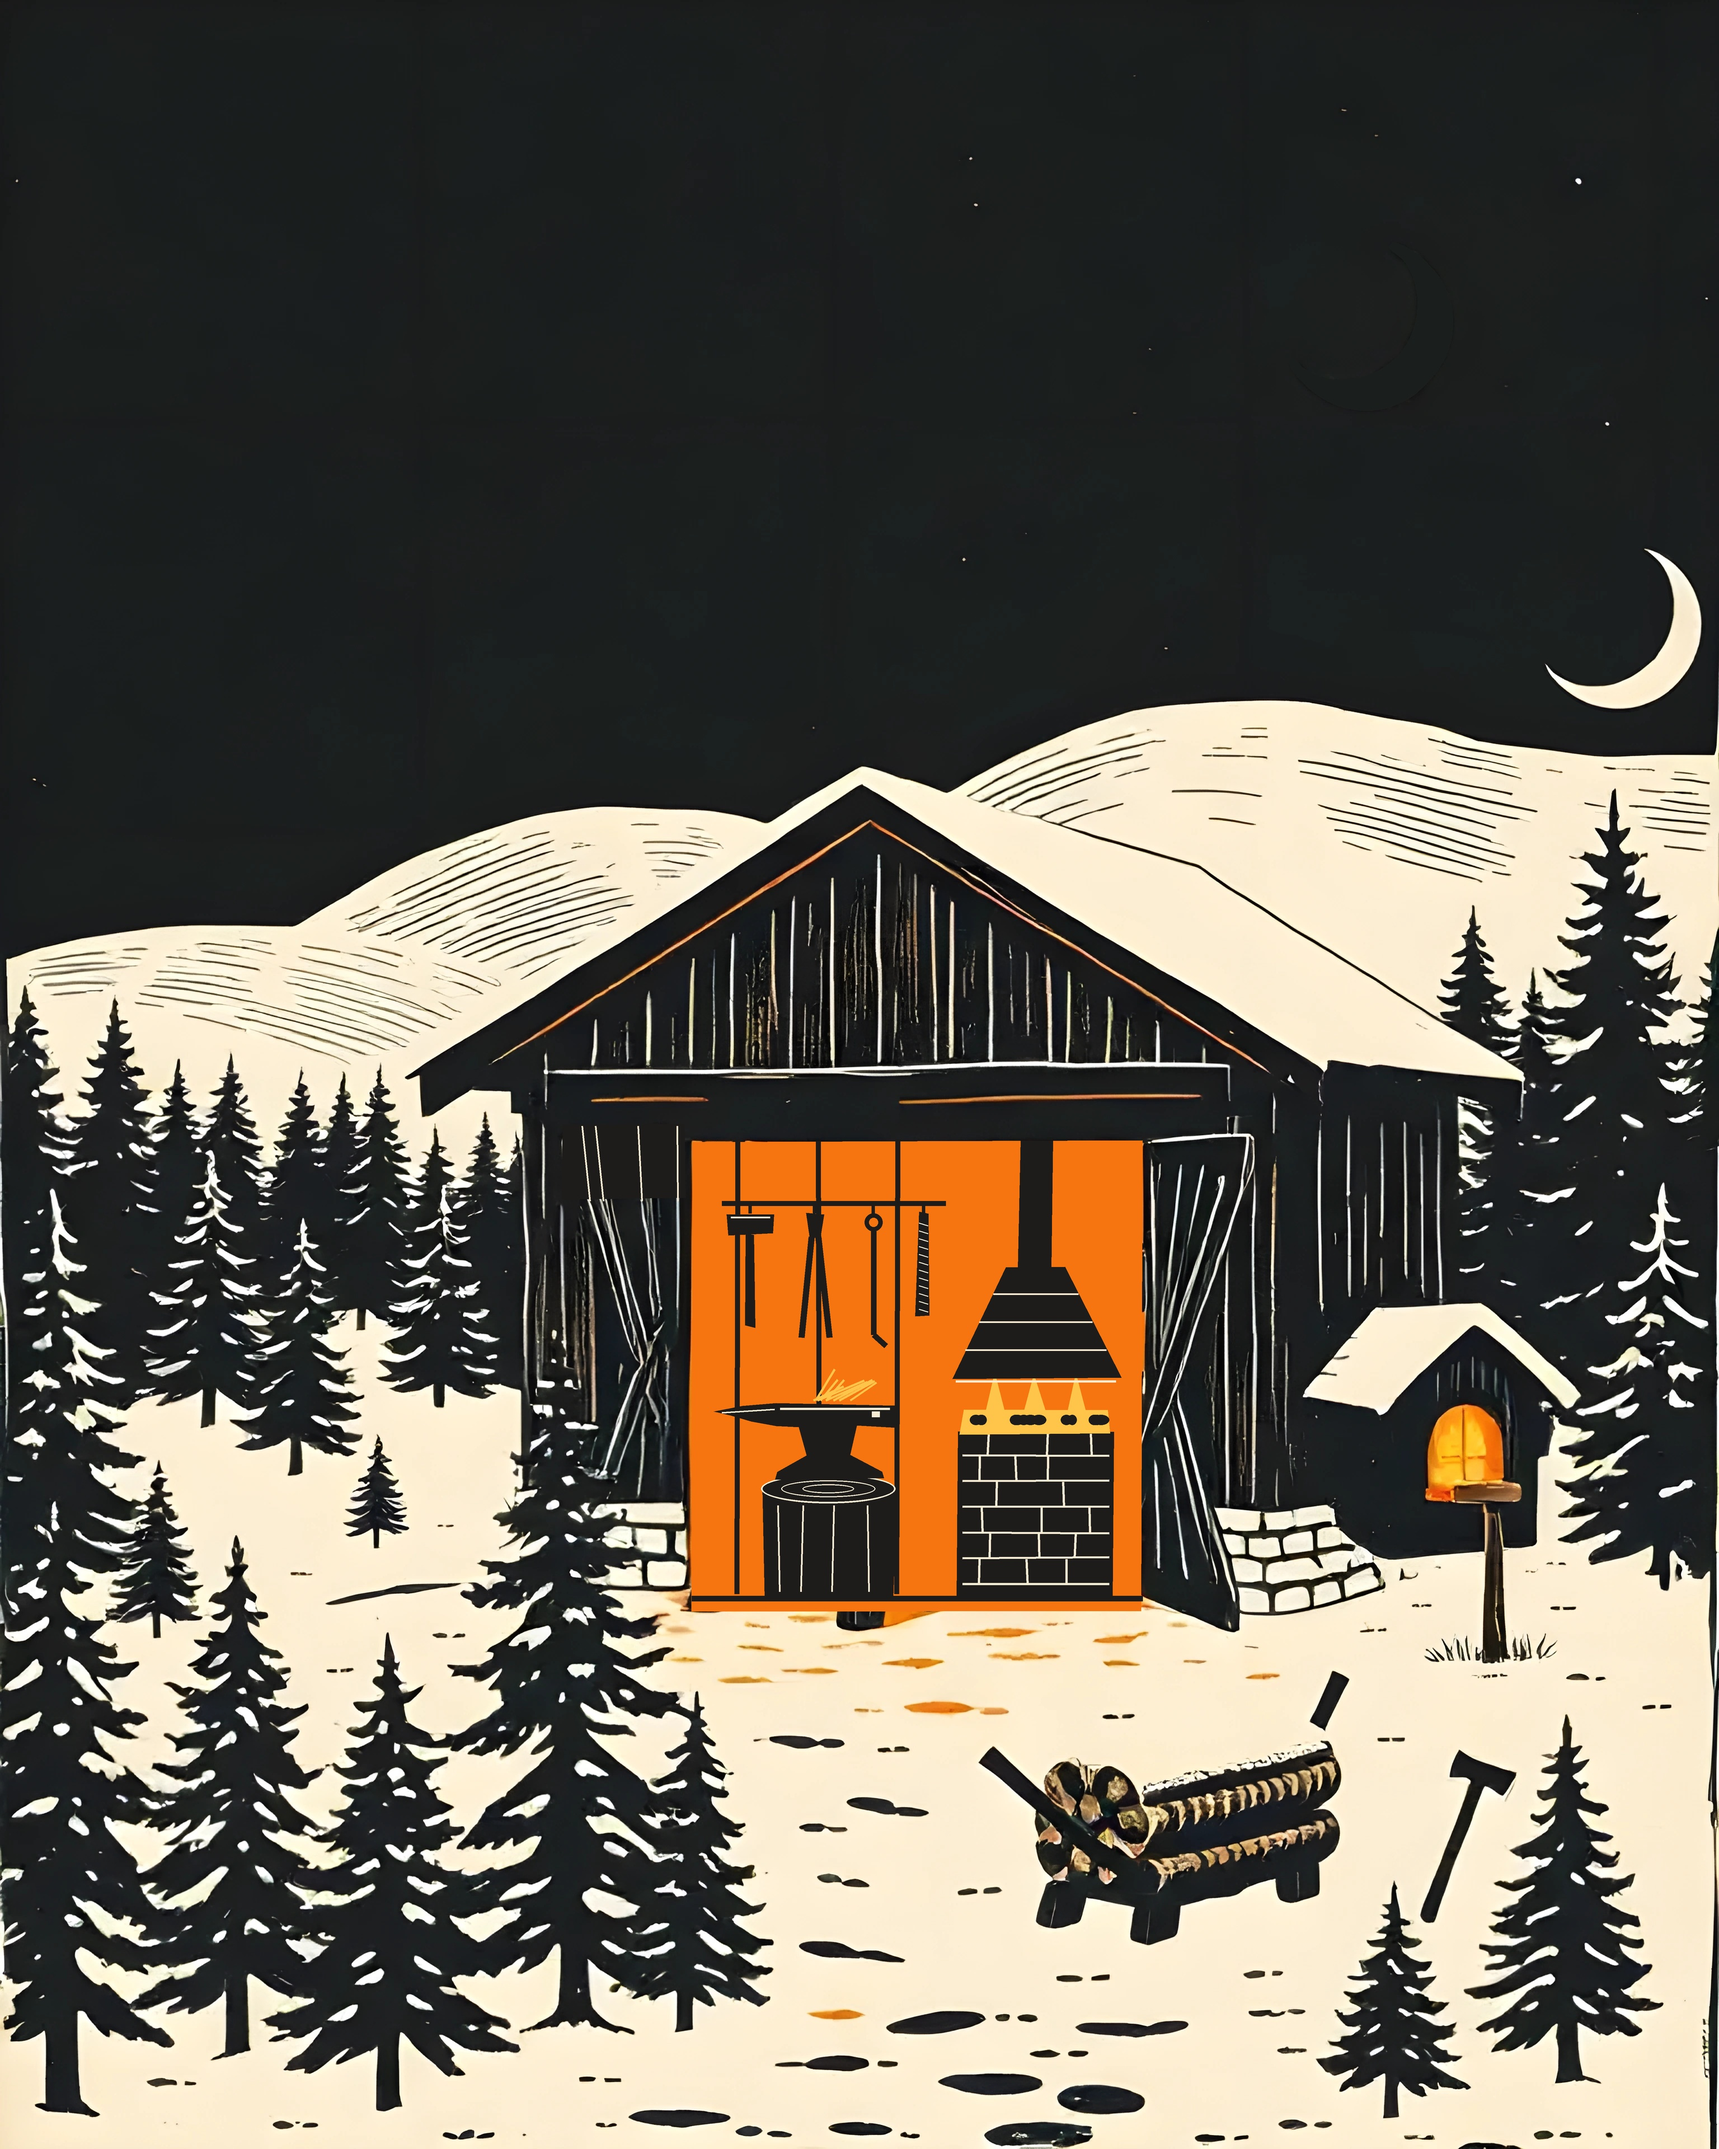
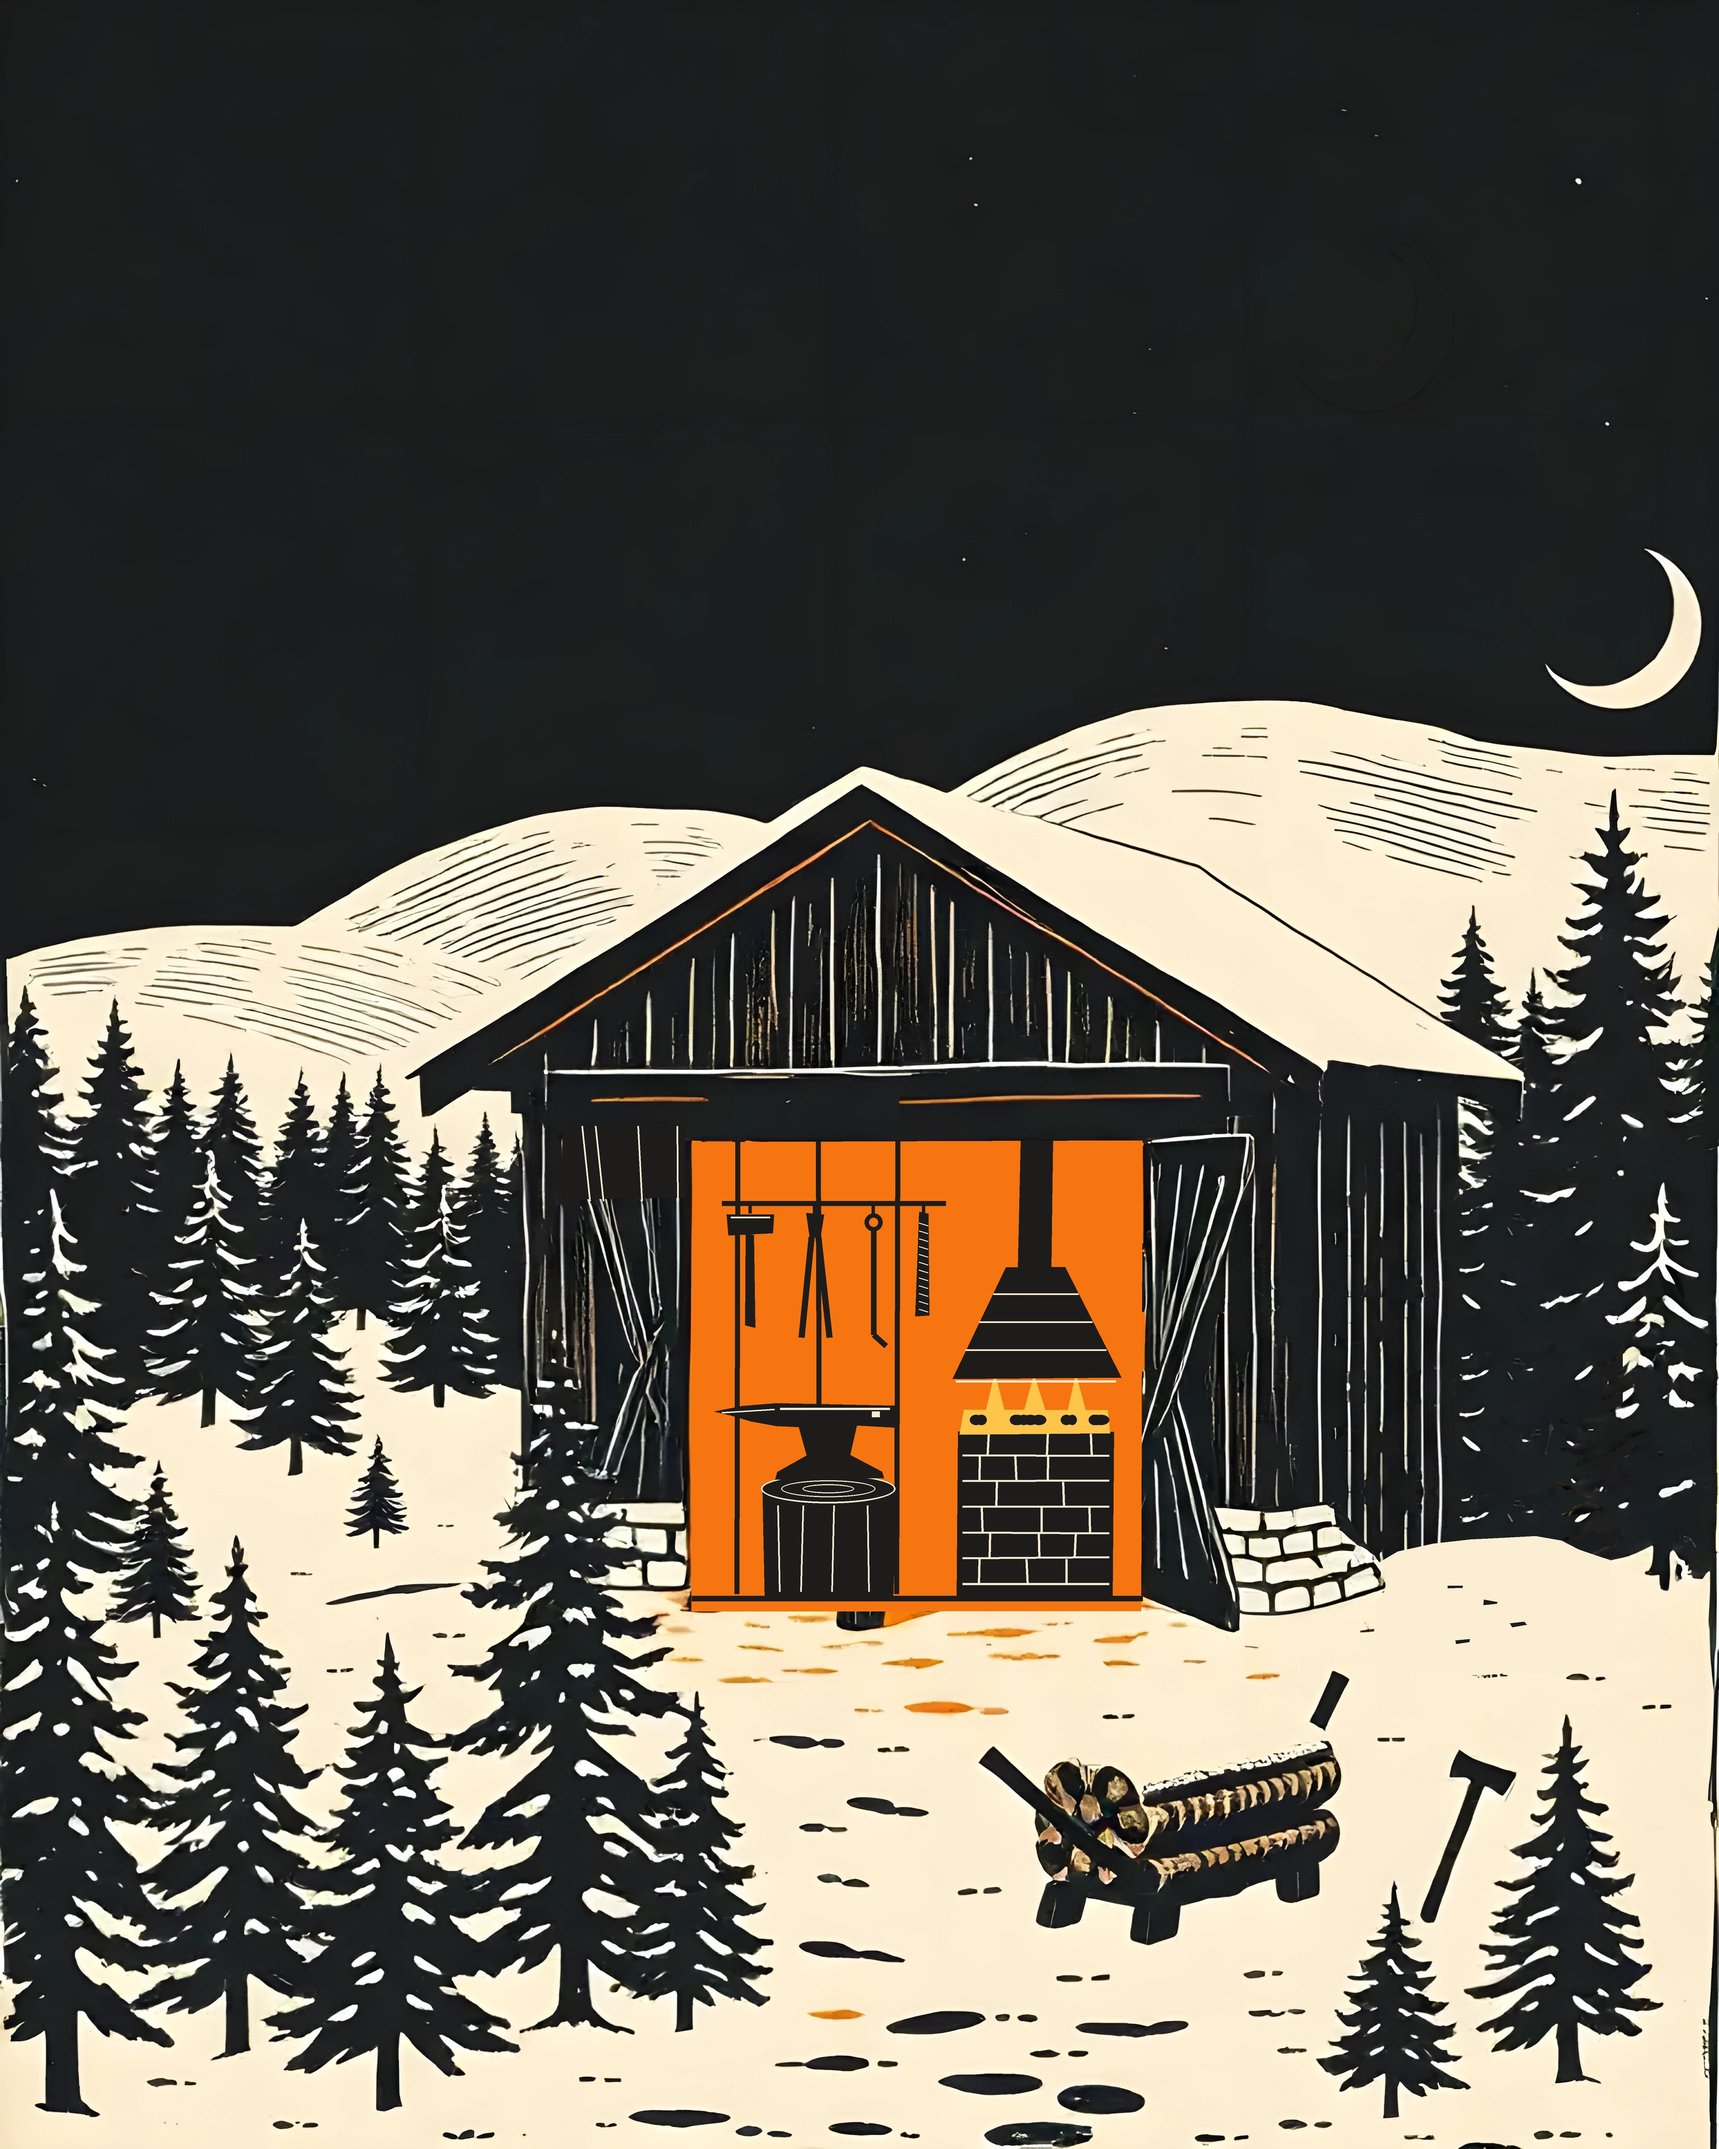
Tome 6 : plus d'étincelles sur l'enclume, la niche à droite de l'atelier enlevée (texture du mur et de l'épinette recopiée)
Claude-Session: https://claude.ai/code/session_014xDY5FLxFXDJt3nYAYznSZ

Changed region(s): [[0.75, 0.5938, 0.9688, 0.7812], [0.4688, 0.625, 0.5, 0.6562]]

diff --git a/images/tomes/essais-ia/tome-6/retouche_atelier.py b/images/tomes/essais-ia/tome-6/retouche_atelier.py
@@ -1,8 +1,11 @@
 """Tome 6 : l'intérieur de l'atelier redessiné (JP, 18 octobre 2026 : « je veux pas que ça fasse AI ; il y a des
 détails dans la cabane »). On repart de l'image choisie (candidate 3, agrandie, lune déplacée), on repeint l'ouverture
 de la porte en orange uni et on y grave des silhouettes nettes : enclume sur sa bille, forge de pierre avec hotte et
-braises, outils de forgeron accrochés, quelques étincelles. Le chiffon blanc du haut de la porte disparaît.
-    python3 retouche_atelier.py SOURCE.jpg SORTIE.jpg
+braises, outils de forgeron accrochés. Le chiffon blanc du haut de la porte disparaît.
+Deuxième passe (JP, même jour : « le feu qui sort de l'affaire qu'on frappe dessus, ça pas rapport, pi la niche à côté
+non plus ») : plus d'étincelles sur l'enclume, et la petite cabane allumée à droite de l'atelier est enlevée ; le mur de
+l'appentis descend jusqu'à la neige, avec un banc de neige au pied.
+    python3 retouche_atelier.py titre-tome-6-avant-retouche.jpg ../../titre-tome-6.jpg
 """
 import sys, random
 import numpy as np
@@ -93,12 +96,56 @@ poly([(cx - 205, face + 12), (cx - 150, face + 4), (cx - 92, face), (cx + 118, f
 ligne((cx - 86, face + 7), (cx + 110, face + 7), 4, PAPIER)    # la table, à la gouge
 ligne((cx - 190, face + 14), (cx - 96, face + 8), 3, PAPIER)    # la bigorne
 d.rectangle([P(cx + 78, face + 12), P(cx + 92, face + 22)], fill=PAPIER)   # le trou carré
-# 6. les étincelles
-for _ in range(9):
-    ang = R.uniform(-1.2, -0.2); L = R.uniform(30, 70); x = cx + R.uniform(-30, 40); y = face - 8
-    ligne((x, y), (x + L * np.cos(ang) * 1.4, y + L * np.sin(ang)), 4, BRAISE)
-
 zone = zone.resize((X1 - X0, Y1 - Y0), Image.LANCZOS)
+im.paste(zone, (X0, Y0))
+
+# 6. la niche à droite de l'atelier : on recopie vers le bas la texture du mur de l'appentis (en miroir une fois sur
+# deux, pour que les planches se raccordent) et celle de l'épinette d'à côté, puis la neige au pied
+src = im.copy(); copie = im.copy()
+def empiler(boite, y0, y1, retourne):
+    tuile = src.crop(boite); h = boite[3] - boite[1]; y = y0; k = 0
+    while y < y1:
+        t = tuile.transpose(retourne) if k % 2 == 0 else tuile
+        copie.paste(t.crop((0, 0, t.width, min(h, y1 - y))), (boite[0], y)); y += h; k += 1
+empiler((2325, 2130, 2600, 2318), 2290, 2800, Image.FLIP_TOP_BOTTOM)                    # le mur et ses planches
+empiler((2600, 2159, 2860, 2286), 2290, 2800, Image.FLIP_LEFT_RIGHT)                    # l'épinette derrière (rangées
+                                                                                        # de bord sans neige : aucune tache coupée)
+# on ne remplace que la niche : son toit, son corps, et le clair entre elle et l'épinette, qui n'a plus de raison d'être
+niche = Image.new('L', im.size, 0)
+ImageDraw.Draw(niche).polygon([(2325, 2318), (2560, 2318), (2580, 2266), (2862, 2458), (2862, 2532), (2752, 2532),
+                               (2752, 2800), (2325, 2800)], fill=255)
+from scipy import ndimage
+# le clair entre la niche et l'épinette, avec les trois branches enneigées qui le touchent, part en entier
+clair = np.asarray(src.convert('L'))[2470:2785, 2740:3060] > 140
+lab, _ = ndimage.label(clair)
+fente = Image.fromarray((ndimage.binary_dilation(lab == lab[180, 30], iterations=3) * 255).astype(np.uint8))
+niche.paste(fente, (2740, 2470), fente)
+# une tache de neige d'origine que le bord coupe disparaît en entier, pour ne pas laisser de bord droit
+m = np.asarray(niche)[2300:2790, 2700:2900] > 0
+lab, n = ndimage.label(np.asarray(src.convert('L'))[2300:2790, 2700:2900] > 140)
+for k in range(1, n + 1):
+    c = lab == k
+    if c.sum() < 4000 and (c & m).any() and (c & ~m).any():
+        m |= ndimage.binary_dilation(c, iterations=2)
+niche.paste(255, (2700, 2300), Image.fromarray((m * 255).astype(np.uint8)))
+copie.paste((28, 28, 28), (2858, 2300, 3000, 2800))                                       # hors de la tuile : le sombre de l'épinette
+im.paste(copie, (0, 0), niche)
+X0, Y0, X1, Y1 = 2270, 2300, 2880, 3000
+zone = im.crop((X0, Y0, X1, Y1)).resize(((X1 - X0) * S, (Y1 - Y0) * S), Image.LANCZOS)
+d = ImageDraw.Draw(zone)
+NEIGE = (251, 238, 211)
+poly([(2462, 2796), (2500, 2772), (2560, 2758), (2630, 2752), (2690, 2748), (2745, 2742), (2790, 2752),
+      (2820, 2768), (2850, 2780), (2880, 2786), (2880, 2990), (2462, 2990)], NEIGE)                   # le banc de neige et le sol
+for x, y in ((2590, 2832), (2650, 2860), (2700, 2900), (2600, 2930)):                  # quelques traces dans la neige
+    poly([(x, y), (x + 26, y), (x + 26, y + 6), (x, y + 6)], NOIR)
+zone = zone.resize((X1 - X0, Y1 - Y0), Image.LANCZOS)
+# les pierres du solage restent devant le mur, et la hache plantée plus bas aussi
+masque = Image.new('L', (X1 - X0, Y1 - Y0), 0)
+md = ImageDraw.Draw(masque)
+md.polygon([(p[0] - X0, p[1] - Y0) for p in
+    ((2270, 2684), (2392, 2684), (2420, 2730), (2476, 2808), (2478, 2848), (2420, 2890), (2270, 2890))], fill=255)
+md.rectangle([0, 2950 - Y0, 2470 - X0, Y1 - Y0], fill=255)
+zone.paste(src.crop((X0, Y0, X1, Y1)), (0, 0), masque)
 im.paste(zone, (X0, Y0))
 im.save(dst, quality=95)
 print('ok', dst)

diff --git a/images/tomes/essais-ia/tome-6/LISEZMOI.md b/images/tomes/essais-ia/tome-6/LISEZMOI.md
@@ -2,6 +2,8 @@
 
 Puis, même jour (JP : « je veux pas que ça fasse AI ; il y a des détails dans la cabane ») : l'intérieur de l'atelier est redessiné par `retouche_atelier.py` (enclume sur sa bille, forge de pierre avec hotte rivetée et braises, marteau, pinces, tisonnier et lime accrochés, étincelles) ; le chiffon blanc du haut de la porte disparaît.
 
+Deuxième passe, même jour (JP : « le feu qui sort de l'affaire qu'on frappe dessus, ça pas rapport, pi la niche à côté non plus ») : plus d'étincelles sur l'enclume ; la petite cabane allumée à droite de l'atelier est enlevée. Le mur de l'appentis et l'épinette sont prolongés vers le bas en recopiant leur propre texture (en miroir une fois sur deux, sur des rangées sans neige pour ne couper aucune tache), et un banc de neige passe au pied. L'image de départ de la retouche est gardée : `titre-tome-6-avant-retouche.jpg` (la candidate 3 agrandie, lune déplacée).
+
 # Tome 6, L'atelier : essais d'image de titre (18 octobre 2026)
 
 L'image a été générée par AI Horde avec `../horde-img2img.py` (gratuit, sans clé), en 768 × 960. Aucune image n'a été agrandie.

diff --git a/.claude/cadre-agents.md b/.claude/cadre-agents.md
@@ -128,7 +128,9 @@ Le cadre complet est `.claude/skills/planches/references/brief-agent.md`. En bre
   choisies par JP sur une planche numérotée : trois encres (la couleur du tome, le papier, l'orange), un grand ciel
   calme en haut pour le titre, collines basses, aucun texte ni signature. L'image retenue s'agrandit sans retouche qui
   floute (JP : « la première était belle, fallait juste enlever 4-5 étoiles ») : on n'efface que les étoiles qui
-  touchent une lettre, une à une, avec la couleur du ciel autour.
+  touchent une lettre, une à une, avec la couleur du ciel autour. On regarde chaque détail comme JP : un objet qui
+  n'a pas de sens part (JP, sur l'atelier : « le feu qui sort de l'affaire qu'on frappe dessus, ça pas rapport, pi la
+  niche à côté non plus ») ; on l'enlève en recopiant la texture voisine de l'image, jamais en aplat.
 
 ## Le montage et la vérification (orchestrateur)
 
